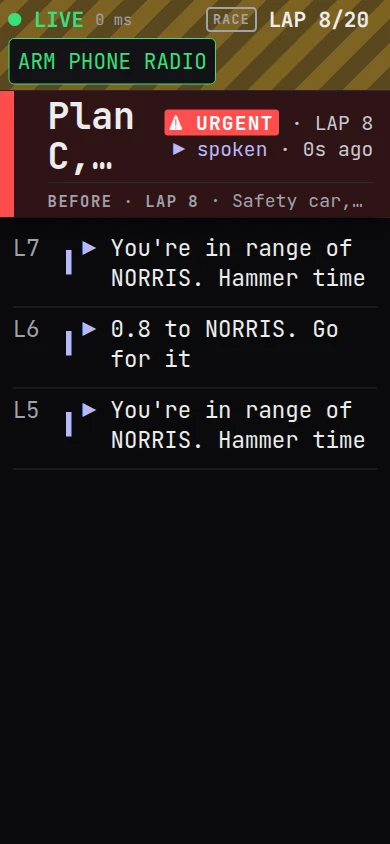
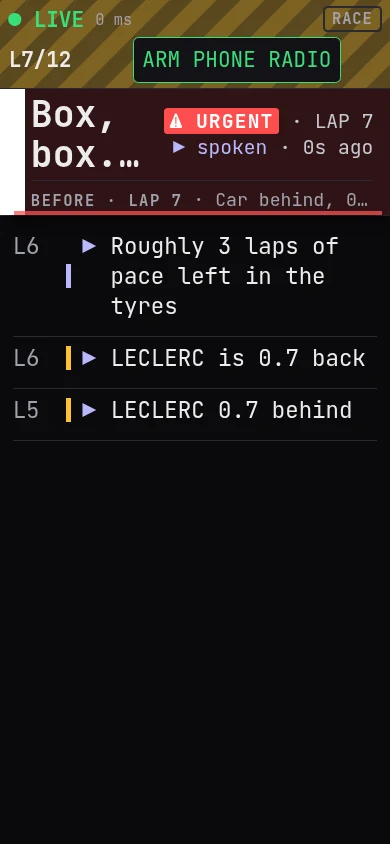
docs: update guide, design notes and gallery for dashboard v2

diff --git a/docs/index.html b/docs/index.html
@@ -384,7 +384,7 @@ function overview() {
     ["Qualifying", [
       ["quali-pit-exit", "Pit exit", "The pit board says the track is clear and shows the next run plan."],
       ["quali-out-lap", "Out-lap", "The banner says the tyres are in. The cut-off and pole gaps fill in after the first lap."],
-      ["quali-flying", "Flying lap", "The right column shows the cut-off, the sector gaps to pole and the projected lap."],
+      ["quali-flying", "Flying lap", "The right column shows the cut-off, the projected lap and a benchmark table of sector and lap gaps to pole and teammate."],
       ["quali-cool-lap", "Cool lap", "Last lap time and gap to pole, with battery and tyre temperatures before the next push."]
     ]],
     ["Race", [

diff --git a/docs/15-dashboard-design.md b/docs/15-dashboard-design.md
@@ -89,29 +89,34 @@ reflow between sessions, and empty zones keep their space when values are absent
 Zone rules:
 
 - **A status bar**: place freshness at the far left. Right-align session, lap and
-  position. The OV chip lights when overtake mode is active or earned, and the SM chip
-  lights in straight mode. The DRV chip sits left of the mindset pill and shows the
-  learned driver rating. The compact mindset pill sits at the far right.
+  position. The LIMITS chip follows the position and counts corner cuts and track
+  limits warnings. The OV chip lights when overtake mode is active or earned, and the SM chip
+  lights in straight mode. Verbosity, quiet and radio-silent chips each have an icon. The
+  DRV chip sits left of the mindset pill and shows a wheel icon, the learned driver rating
+  and a globe or track icon for its source. The compact mindset pill sits at the far right.
 - **B banner**: keep it full-width and fixed-height. It holds the current call, one
   evidence line and one dim PREVIOUS line. The main screen has no radio log. With no
   call, the banner says "— radio quiet —".
 - **C tyres**: draw a 2×2 grid as the car from above (FL top-left, RR bottom-right). Each
   corner shows the inner temperature, a trend arrow, wear %, a meter for the 80 to 110 °C
   window and the brake temperature. The arrow compares `inner` (fast EMA) with
-  `tyre_inner_ema_slow`: red ▲ heating, blue ▼ cooling, white ▬ steady. The arrow
-  replaces the status word, which is an owner exception to the colour plus word rule.
+  `tyre_inner_ema_slow`: red ▲ heating, blue ▼ cooling, white ▬ steady. The status
+  word (`COLD`, `OK`, `HOT`) sits beside the arrow.
   The hot-wear corner gets a HOT WEAR tag with the rate, and a locked wheel gets an
-  orange LOCKED border. The BB and DIFF strip sits under the grid.
-- **D fixed tiles**: fuel at the flag, battery with its budget mode, weather, and two
-  LAST LAPS rows. Each row shows the newer lap and time, then lap and sector deltas against
+  orange LOCKED border. The BB and DIFF groups sit under the grid, with no legend line.
+- **D fixed tiles**: fuel at the flag with kg per lap under it, battery with its budget
+  mode plus MJ per lap and laps to the floor, weather, and two LAST LAPS rows. The LAST
+  LAPS header shows the base pace. Each row shows the newer lap and time, then lap and sector deltas against
   the lap before. Keep the last three laps so the oldest is the baseline. Damage stays at the bottom.
   Weather shows an icon and rain chance for now, 10 and 30 min. The crossover slot gets
   a marker, and a line under it gives the target compound and ETA.
 - **E contextual zone**: cards follow a fixed order: Safety, Execution, Reply, Tactical,
   Info. Safety covers SC, VSC, red flag, blue flag and RAIN CROSSOVER when
   `weather_crossover_min` is 5 or less. Tactical holds the battle card and the strategy
-  plans. In qualifying the zone shows the session phase, cut-off, benchmark sectors and
-  the current run.
+  plans. A line under the plans shows PIT EXIT (clean, traffic or the rival and gap) and
+  the undercut and overcut deltas. In qualifying the zone shows the session phase, the
+  cut-off, a BENCHMARK table (POLE and MATE rows with S1, S2, S3 and LAP gaps) and the
+  current run.
 - **Battle card**: one rival as the single card. When `battle.ahead2` or
   `battle.behind2` is set, or places swap, the card lists up to two cars each side
   with a state word, gap and rail around a YOU divider. The direct rival's row word

diff --git a/docs/getting-started.md b/docs/getting-started.md
@@ -55,6 +55,55 @@ pitwall voice say             # you should hear a radio check
 pitwall start                 # ingest + rules + speech + dashboard
 ```
 
+## Open the dashboard
+
+Open `http://localhost:8000` on the second monitor. You should hear "Pit wall online." at start.
+
+| Page | Shows |
+|---|---|
+| `/` | The one-screen dashboard: status bar, current call, tyres, fuel and battery, and the strategy or qualifying cards |
+| `/radio` | The current call and a log of recent calls in large type |
+| `/debrief` | Stored sessions, each with a link to its review |
+
+On another device, open `http://<PC-LAN-IP>:8000` and enter the PIN that Pitwall prints at startup.
+[Phone radio over HTTPS](getting-started.md#phone-radio-over-https) covers phones.
+
+To check the server from a script, request `/api/health`:
+
+```powershell
+irm http://localhost:8000/api/health
+```
+
+The response looks like this (`latency` trimmed):
+
+```json
+{
+  "config_hash": "bf70ccb3",
+  "config_error": null,
+  "latency": {"tts_ms": {"p50": 0.0, "p99": 0.0, "mean": 0.0}},
+  "speaker": "null",
+  "packet_age_ms": 261.8,
+  "live": true
+}
+```
+
+`live` is `true` while telemetry arrives. `config_error` shows a bad `settings.yaml` edit.
+
+The dashboard gets its data over a WebSocket at `/ws`. The server sends a `hello` frame first.
+The client answers `{"type":"hello","v":1}`, and the server then sends a `snapshot` frame
+and a `state` frame 5 times a second (`ui.state_hz`). `v` is the protocol version. It is still 1 with the v2 dashboard.
+
+A session looks like this (payloads trimmed):
+
+```text
+server  {"v": 1, "type": "hello", "seq": 76, "payload": {"protocol": 1, "config_hash": "bf70ccb3", "mindset": "balanced", "verbosity": "normal", "review": true, "audio": false}}
+client  {"type": "hello", "v": 1}
+server  {"v": 1, "type": "snapshot", "seq": 77, "payload": {"live": true, "session_kind": "race", "track": "silverstone", "lap_num": 1, "total_laps": 10, "position": 3, "tyres": {...}, "strategy": {...}, "calls": []}}
+server  {"v": 1, "type": "state", "seq": 78, "payload": {...}}
+```
+
+If the client sends another `v`, the server closes the socket with code 4001.
+
 ## Speech engines
 
 `speech.engine` in `settings.yaml` picks the engine. The default `auto` uses Piper if its voice file exists, else `null`. Windows has no built-in speech fallback. On Mac and Linux, `auto` also picks Piper once the voice is downloaded.
@@ -137,9 +186,6 @@ Add `--log-level` before the command to print more detail. `--log-level info` pr
 The `voices/` directory is git-ignored. Copy `voices/.phrases` to friends who use the same server model and voice settings. Their Pitwall still needs a reachable OmniVoice server. Without one, Pitwall falls back to Piper.
 
 OmniVoice falls back to Piper, then `null`.
-
-Open `http://localhost:8000` on the second monitor (`/radio` for the compact log).
-You should hear "Pit wall online." at start.
 
 ## Phone radio over HTTPS
 
